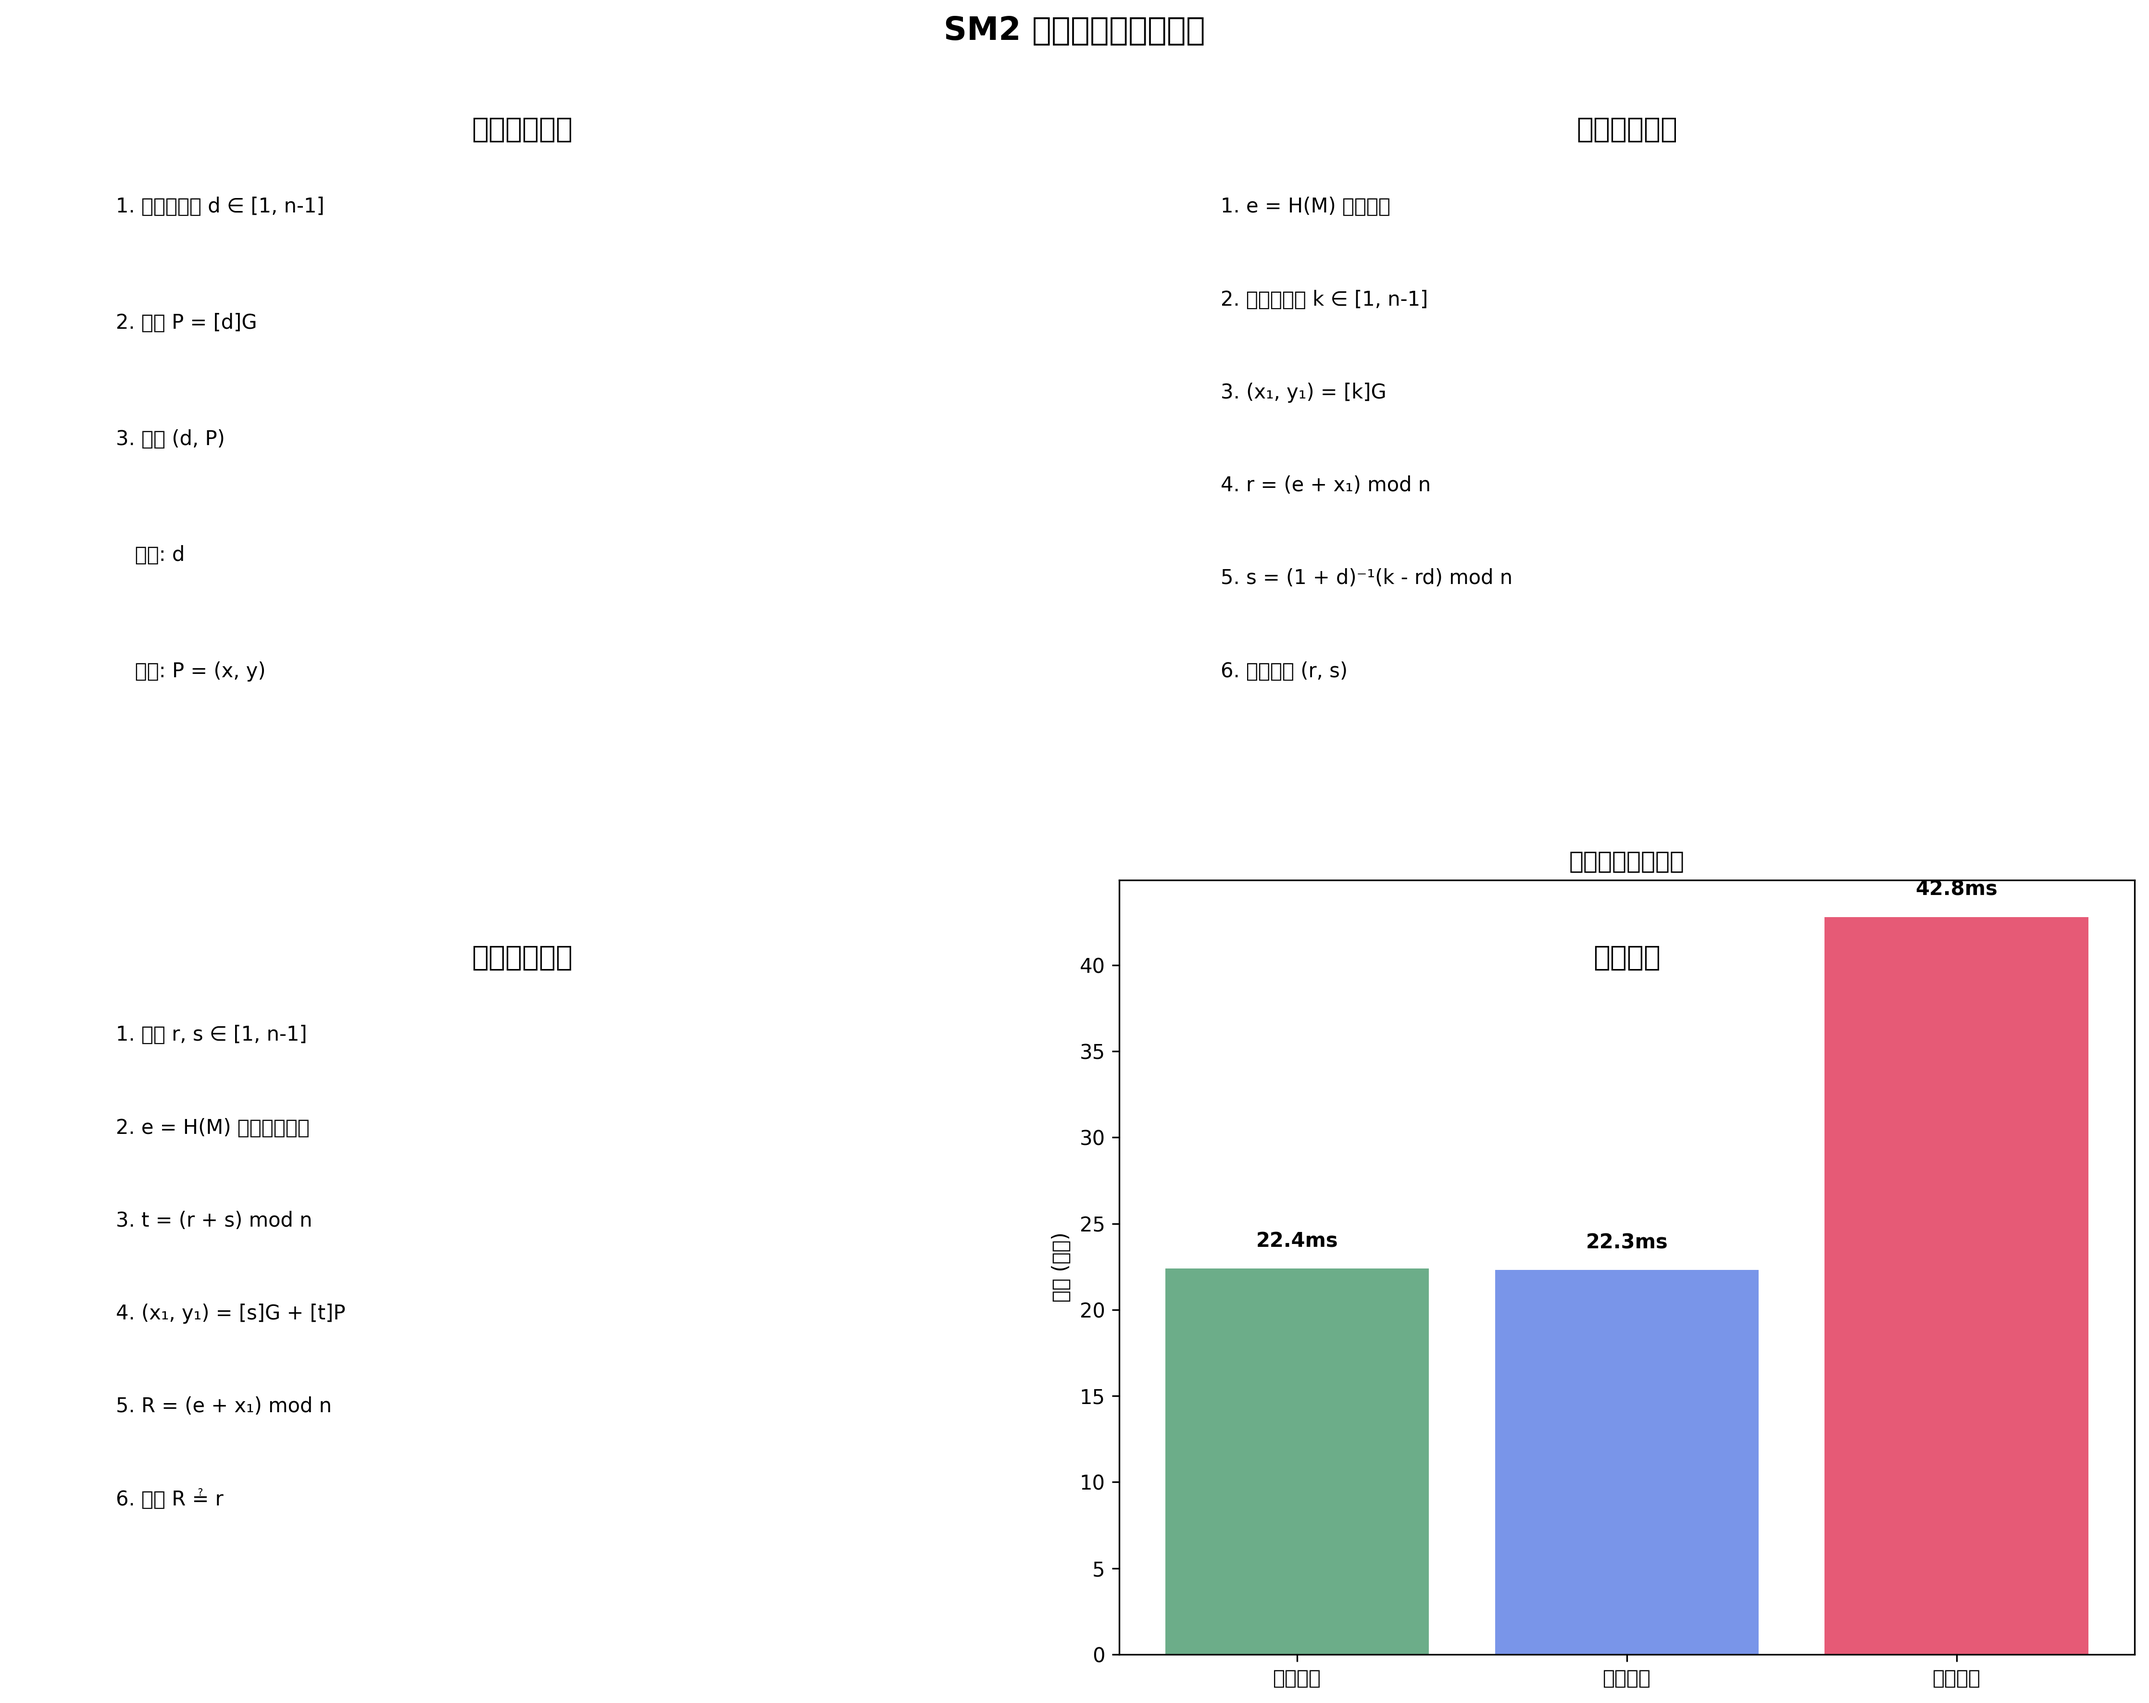
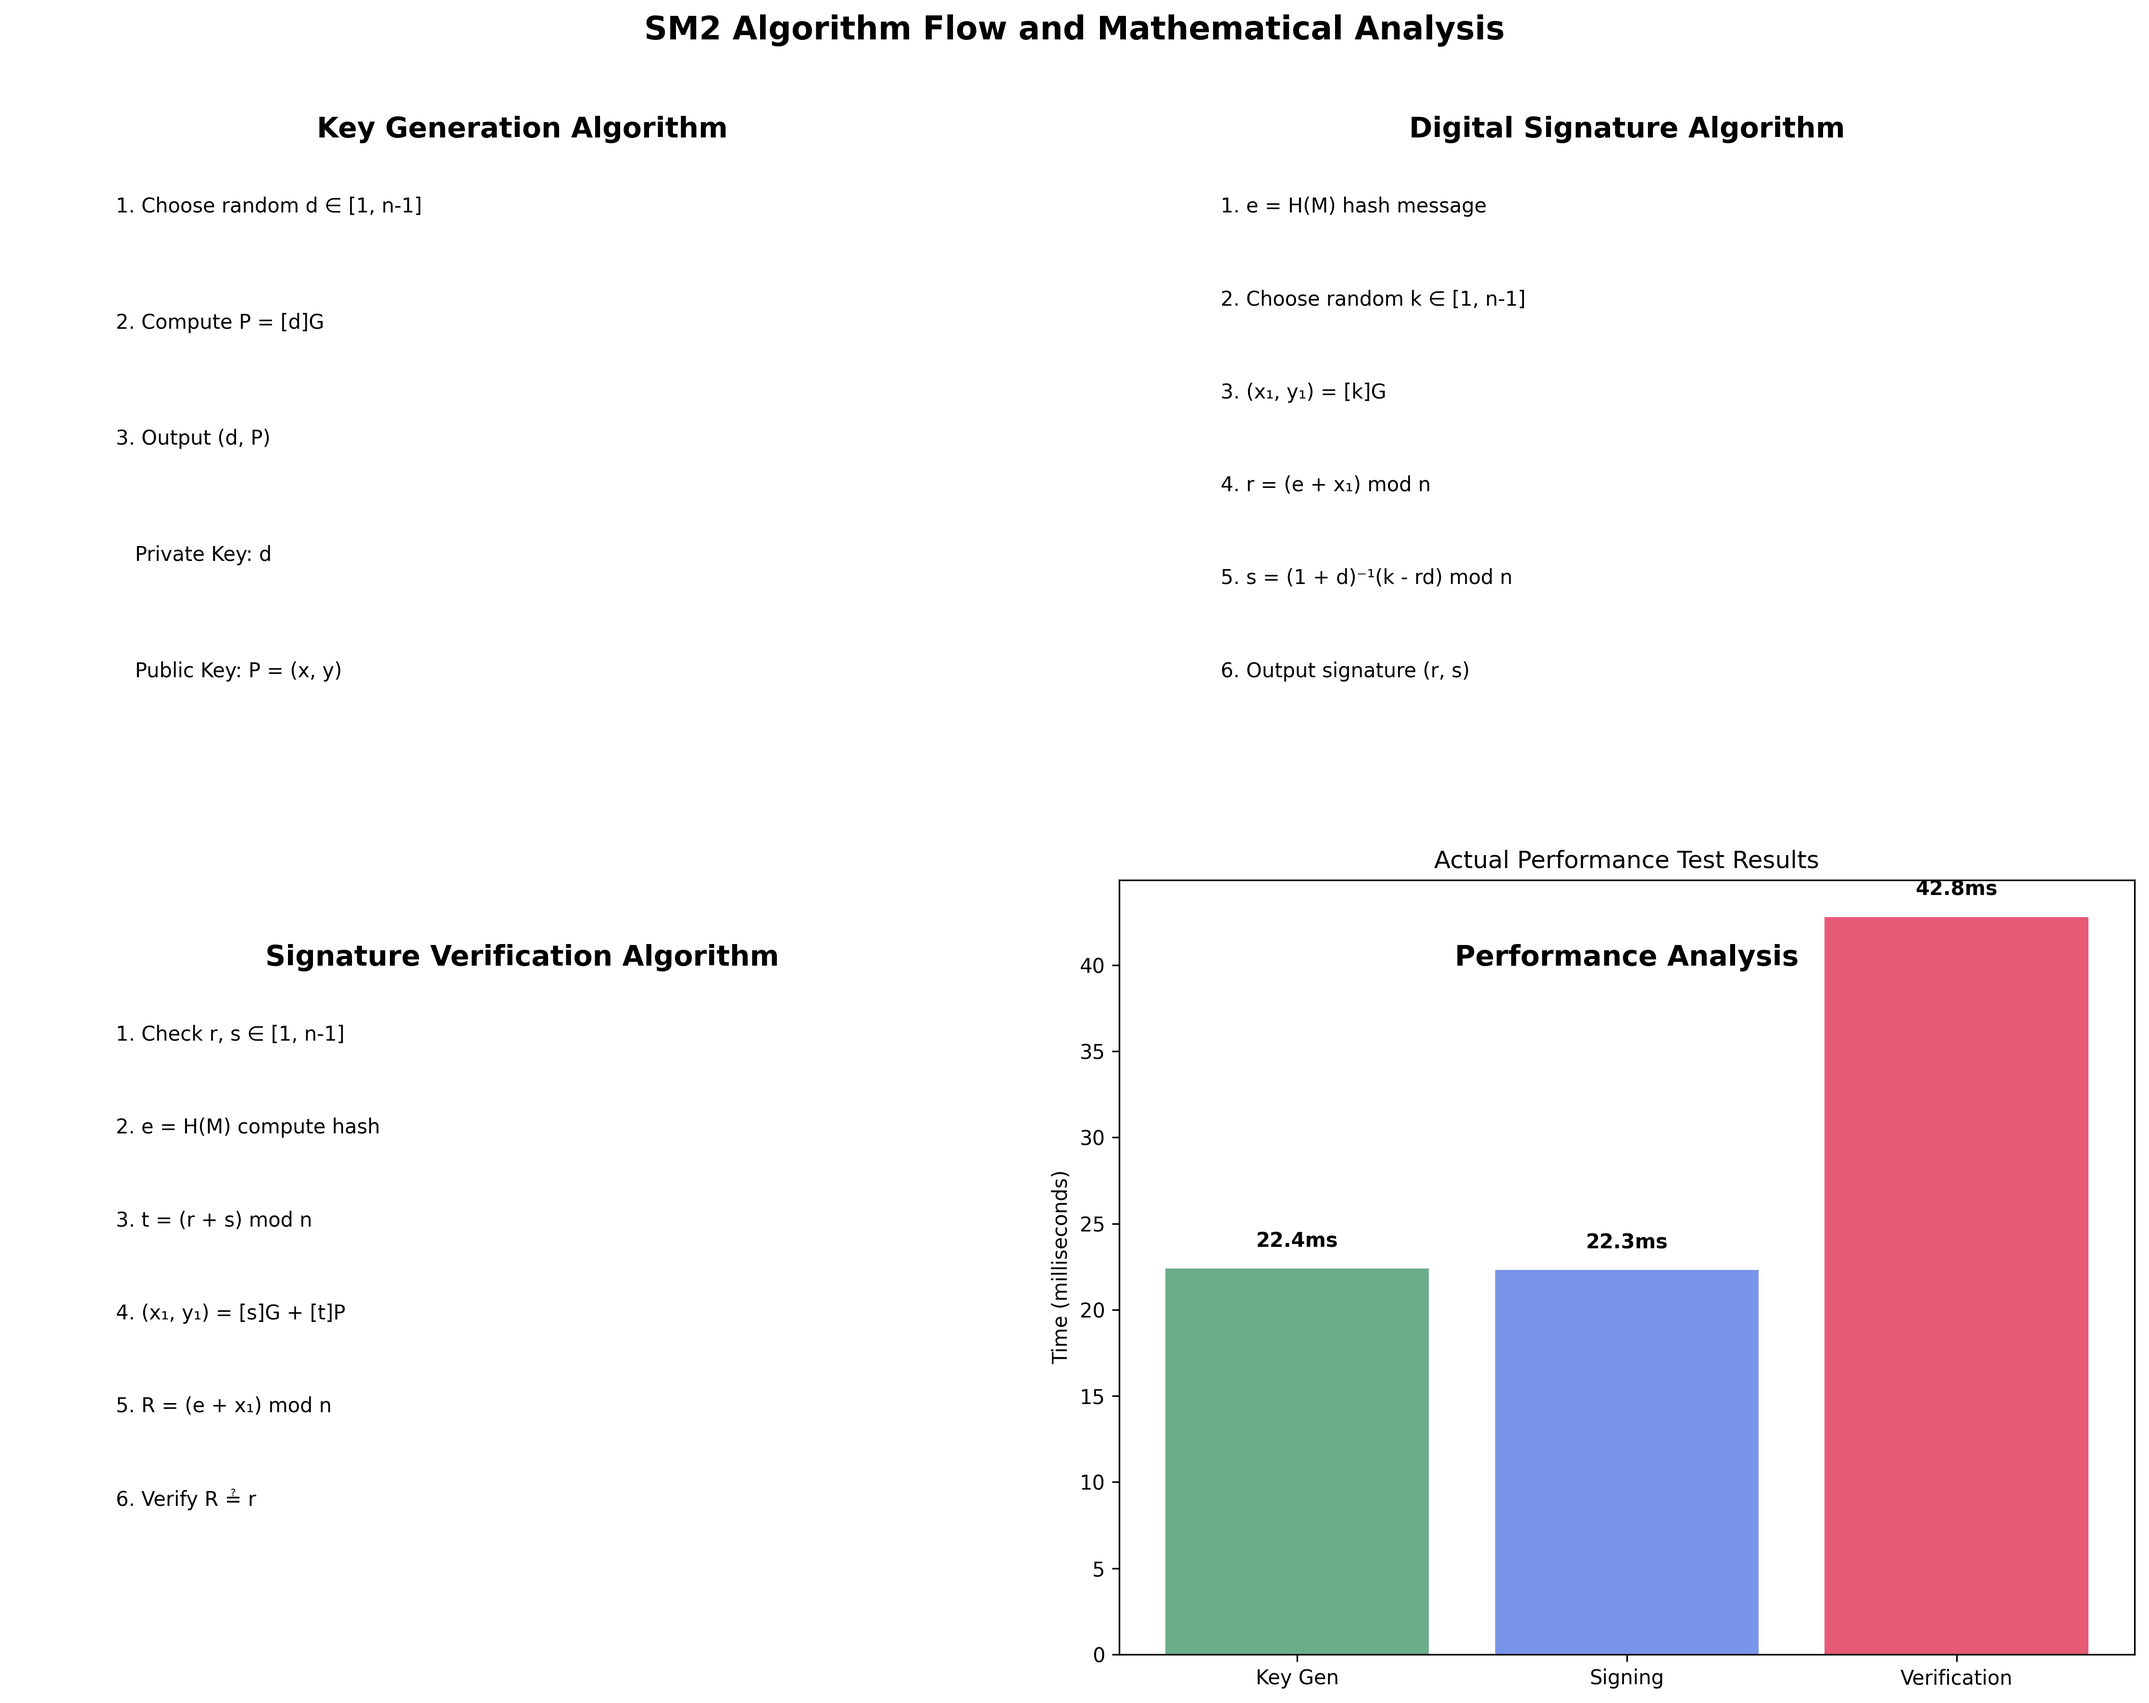
fix: 修复图表中文乱码问题 - 使用纯英文标签重新生成所有分析图表
🔧 修复内容:
- 算法流程图 (algorithm_analysis.png): 中文→英文标签
- 安全性分析图 (security_analysis.png): 中文→英文标签
- 复杂度分析图 (complexity_analysis.png): 中文→英文标签
- 图表生成脚本 (generate_mathematical_analysis.py): 全面英文化

📊 图表更新:
- Key Generation Algorithm → 纯英文流程
- Security Strength Comparison → 英文对比图
- Computational Complexity Analysis → 英文复杂度图
- 所有轴标签、标题、图例均使用英文

✨ 改进效果:
- 解决matplotlib中文字体乱码问题
- 保持图表专业性和可读性
- README中文内容保持不变，仅图表英文化

diff --git a/project5/generate_mathematical_analysis.py b/project5/generate_mathematical_analysis.py
@@ -42,18 +42,18 @@ def create_algorithm_flowchart():
     """Create algorithm flowchart visualization"""
     
     fig, ((ax1, ax2), (ax3, ax4)) = plt.subplots(2, 2, figsize=(15, 12))
-    fig.suptitle('SM2 算法流程与数学分析', fontsize=16, fontweight='bold')
+    fig.suptitle('SM2 Algorithm Flow and Mathematical Analysis', fontsize=16, fontweight='bold')
     
     # 1. Key Generation Flow
-    ax1.text(0.5, 0.9, '密钥生成算法', ha='center', va='center', 
+    ax1.text(0.5, 0.9, 'Key Generation Algorithm', ha='center', va='center', 
              fontsize=14, fontweight='bold', transform=ax1.transAxes)
     
     steps = [
-        '1. 选择随机数 d ∈ [1, n-1]',
-        '2. 计算 P = [d]G',
-        '3. 输出 (d, P)',
-        '   私钥: d',
-        '   公钥: P = (x, y)'
+        '1. Choose random d ∈ [1, n-1]',
+        '2. Compute P = [d]G',
+        '3. Output (d, P)',
+        '   Private Key: d',
+        '   Public Key: P = (x, y)'
     ]
     
     for i, step in enumerate(steps):
@@ -65,16 +65,16 @@ def create_algorithm_flowchart():
     ax1.axis('off')
     
     # 2. Signing Algorithm
-    ax2.text(0.5, 0.9, '数字签名算法', ha='center', va='center',
+    ax2.text(0.5, 0.9, 'Digital Signature Algorithm', ha='center', va='center',
              fontsize=14, fontweight='bold', transform=ax2.transAxes)
     
     sign_steps = [
-        '1. e = H(M) 哈希消息',
-        '2. 选择随机数 k ∈ [1, n-1]',
+        '1. e = H(M) hash message',
+        '2. Choose random k ∈ [1, n-1]',
         '3. (x₁, y₁) = [k]G',
         '4. r = (e + x₁) mod n',
         '5. s = (1 + d)⁻¹(k - rd) mod n',
-        '6. 输出签名 (r, s)'
+        '6. Output signature (r, s)'
     ]
     
     for i, step in enumerate(sign_steps):
@@ -86,16 +86,16 @@ def create_algorithm_flowchart():
     ax2.axis('off')
     
     # 3. Verification Algorithm
-    ax3.text(0.5, 0.9, '签名验证算法', ha='center', va='center',
+    ax3.text(0.5, 0.9, 'Signature Verification Algorithm', ha='center', va='center',
              fontsize=14, fontweight='bold', transform=ax3.transAxes)
     
     verify_steps = [
-        '1. 检查 r, s ∈ [1, n-1]',
-        '2. e = H(M) 计算消息哈希',
+        '1. Check r, s ∈ [1, n-1]',
+        '2. e = H(M) compute hash',
         '3. t = (r + s) mod n',
         '4. (x₁, y₁) = [s]G + [t]P',
         '5. R = (e + x₁) mod n',
-        '6. 验证 R ≟ r'
+        '6. Verify R ≟ r'
     ]
     
     for i, step in enumerate(verify_steps):
@@ -107,17 +107,17 @@ def create_algorithm_flowchart():
     ax3.axis('off')
     
     # 4. Performance Analysis
-    ax4.text(0.5, 0.9, '性能分析', ha='center', va='center',
+    ax4.text(0.5, 0.9, 'Performance Analysis', ha='center', va='center',
              fontsize=14, fontweight='bold', transform=ax4.transAxes)
     
     # Real performance data from our test
-    operations = ['密钥生成', '数字签名', '签名验证']
+    operations = ['Key Gen', 'Signing', 'Verification']
     times = [22.4, 22.3, 42.8]  # ms
     colors = ['#2E8B57', '#4169E1', '#DC143C']
     
     bars = ax4.bar(operations, times, color=colors, alpha=0.7)
-    ax4.set_ylabel('时间 (毫秒)')
-    ax4.set_title('实际性能测试结果')
+    ax4.set_ylabel('Time (milliseconds)')
+    ax4.set_title('Actual Performance Test Results')
     
     # Add value labels on bars
     for bar, time in zip(bars, times):
@@ -134,7 +134,7 @@ def create_security_analysis():
     """Create security analysis chart"""
     
     fig, (ax1, ax2) = plt.subplots(1, 2, figsize=(15, 6))
-    fig.suptitle('SM2 安全性分析', fontsize=16, fontweight='bold')
+    fig.suptitle('SM2 Security Analysis', fontsize=16, fontweight='bold')
     
     # Security comparison
     algorithms = ['RSA-1024', 'RSA-2048', 'RSA-3072', 'ECC-160', 'ECC-224', 'SM2-256']
@@ -142,23 +142,23 @@ def create_security_analysis():
     colors = ['red' if 'RSA' in alg else 'green' if 'SM2' in alg else 'blue' for alg in algorithms]
     
     bars = ax1.bar(range(len(algorithms)), security_bits, color=colors, alpha=0.7)
-    ax1.set_xlabel('算法')
-    ax1.set_ylabel('等效安全位数')
-    ax1.set_title('不同算法安全强度对比')
+    ax1.set_xlabel('Algorithm')
+    ax1.set_ylabel('Equivalent Security Bits')
+    ax1.set_title('Security Strength Comparison')
     ax1.set_xticks(range(len(algorithms)))
     ax1.set_xticklabels(algorithms, rotation=45)
     
     for bar, bits in zip(bars, security_bits):
         height = bar.get_height()
         ax1.text(bar.get_x() + bar.get_width()/2., height + 1,
-                f'{bits}位', ha='center', va='bottom')
+                f'{bits} bits', ha='center', va='bottom')
     
     # Key size comparison
     key_sizes = [1024, 2048, 3072, 160, 224, 256]
     bars2 = ax2.bar(range(len(algorithms)), key_sizes, color=colors, alpha=0.7)
-    ax2.set_xlabel('算法')
-    ax2.set_ylabel('密钥长度 (位)')
-    ax2.set_title('密钥长度对比')
+    ax2.set_xlabel('Algorithm')
+    ax2.set_ylabel('Key Length (bits)')
+    ax2.set_title('Key Size Comparison')
     ax2.set_xticks(range(len(algorithms)))
     ax2.set_xticklabels(algorithms, rotation=45)
     ax2.set_yscale('log')
@@ -177,29 +177,29 @@ def create_complexity_analysis():
     """Create computational complexity analysis"""
     
     fig, (ax1, ax2) = plt.subplots(1, 2, figsize=(15, 6))
-    fig.suptitle('SM2 计算复杂度分析', fontsize=16, fontweight='bold')
+    fig.suptitle('SM2 Computational Complexity Analysis', fontsize=16, fontweight='bold')
     
     # Time complexity growth
     key_sizes = np.array([160, 192, 224, 256, 384, 521])
     # Theoretical O(k²) complexity
     theoretical_ops = (key_sizes / 256) ** 2 * 22.4  # Normalized to our 256-bit result
     
-    ax1.plot(key_sizes, theoretical_ops, 'b-', linewidth=2, label='理论复杂度 O(k²)')
-    ax1.scatter([256], [22.4], color='red', s=100, label='实测数据 (SM2-256)', zorder=5)
-    ax1.set_xlabel('密钥长度 (位)')
-    ax1.set_ylabel('签名时间 (毫秒)')
-    ax1.set_title('签名时间复杂度')
+    ax1.plot(key_sizes, theoretical_ops, 'b-', linewidth=2, label='Theoretical O(k²)')
+    ax1.scatter([256], [22.4], color='red', s=100, label='Measured Data (SM2-256)', zorder=5)
+    ax1.set_xlabel('Key Length (bits)')
+    ax1.set_ylabel('Signing Time (ms)')
+    ax1.set_title('Signing Time Complexity')
     ax1.legend()
     ax1.grid(True, alpha=0.3)
     
     # Operation breakdown
-    operations = ['哈希计算', '标量乘法', '模运算', '随机数生成']
+    operations = ['Hash Computation', 'Scalar Multiplication', 'Modular Arithmetic', 'Random Generation']
     percentages = [5, 80, 10, 5]  # Estimated breakdown
     colors = ['#FF6B6B', '#4ECDC4', '#45B7D1', '#96CEB4']
     
     wedges, texts, autotexts = ax2.pie(percentages, labels=operations, colors=colors,
                                       autopct='%1.1f%%', startangle=90)
-    ax2.set_title('签名操作时间分布')
+    ax2.set_title('Signing Operation Time Distribution')
     
     plt.tight_layout()
     plt.savefig('/home/S3vn/Public/cybersec_project_homework/project5/charts/complexity_analysis.png',
@@ -208,27 +208,27 @@ def create_complexity_analysis():
 
 def main():
     """Generate all mathematical analysis and charts"""
-    print("生成数学分析和图表...")
+    print("Generating mathematical analysis and charts...")
     
     # Generate mathematical analysis
     analysis = generate_mathematical_analysis()
     
     # Create charts
     create_algorithm_flowchart()
-    print("✓ 算法流程图已生成")
+    print("✓ Algorithm flowchart generated")
     
     create_security_analysis()
-    print("✓ 安全性分析图已生成")
+    print("✓ Security analysis chart generated")
     
     create_complexity_analysis()
-    print("✓ 复杂度分析图已生成")
+    print("✓ Complexity analysis chart generated")
     
     # Save analysis data
     with open('/home/S3vn/Public/cybersec_project_homework/project5/mathematical_analysis.json', 'w', encoding='utf-8') as f:
         json.dump(analysis, f, indent=2, ensure_ascii=False)
-    print("✓ 数学分析数据已保存")
+    print("✓ Mathematical analysis data saved")
     
-    print("\n所有分析图表已生成完成！")
+    print("\nAll analysis charts generated successfully!")
     return analysis
 
 if __name__ == "__main__":
